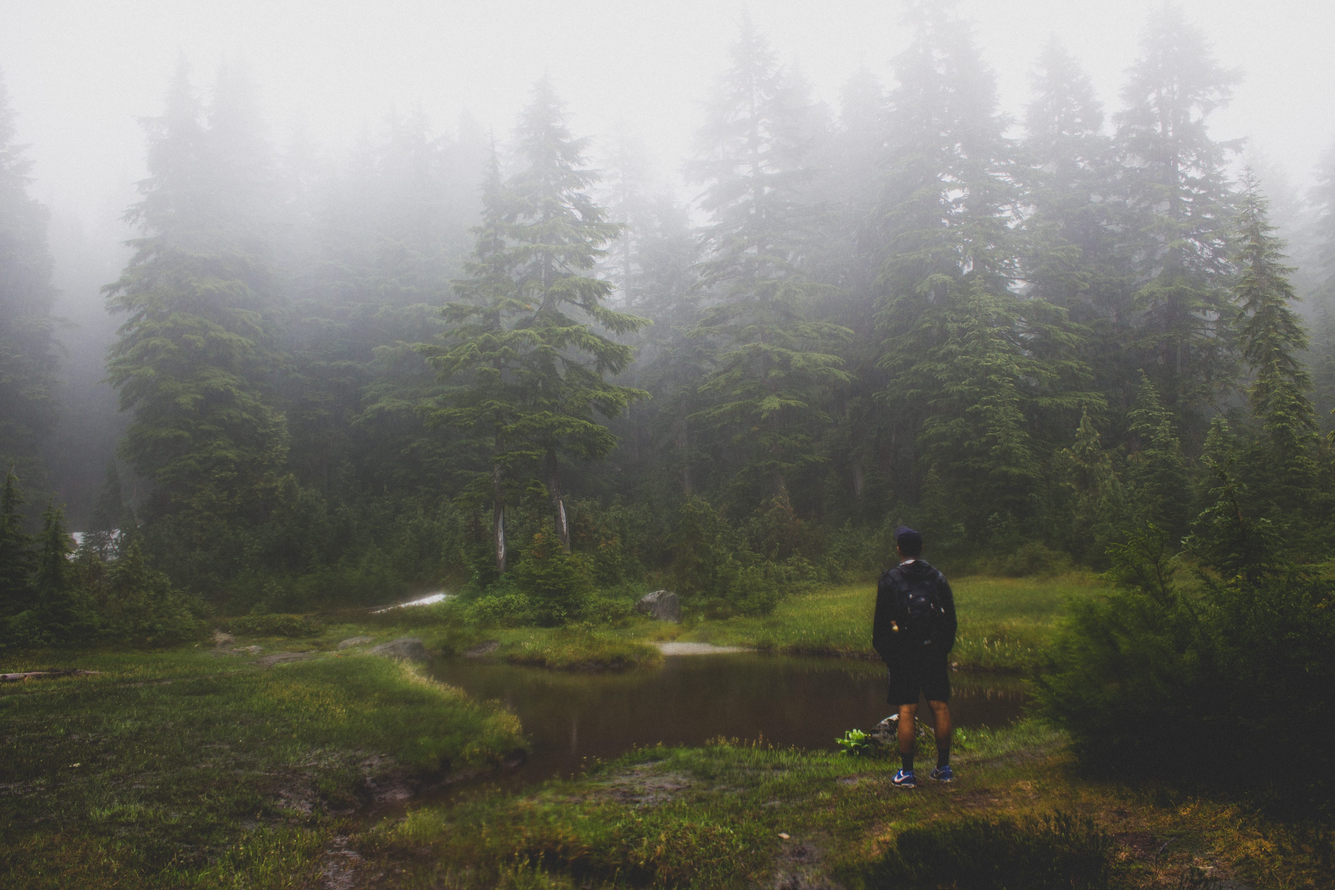
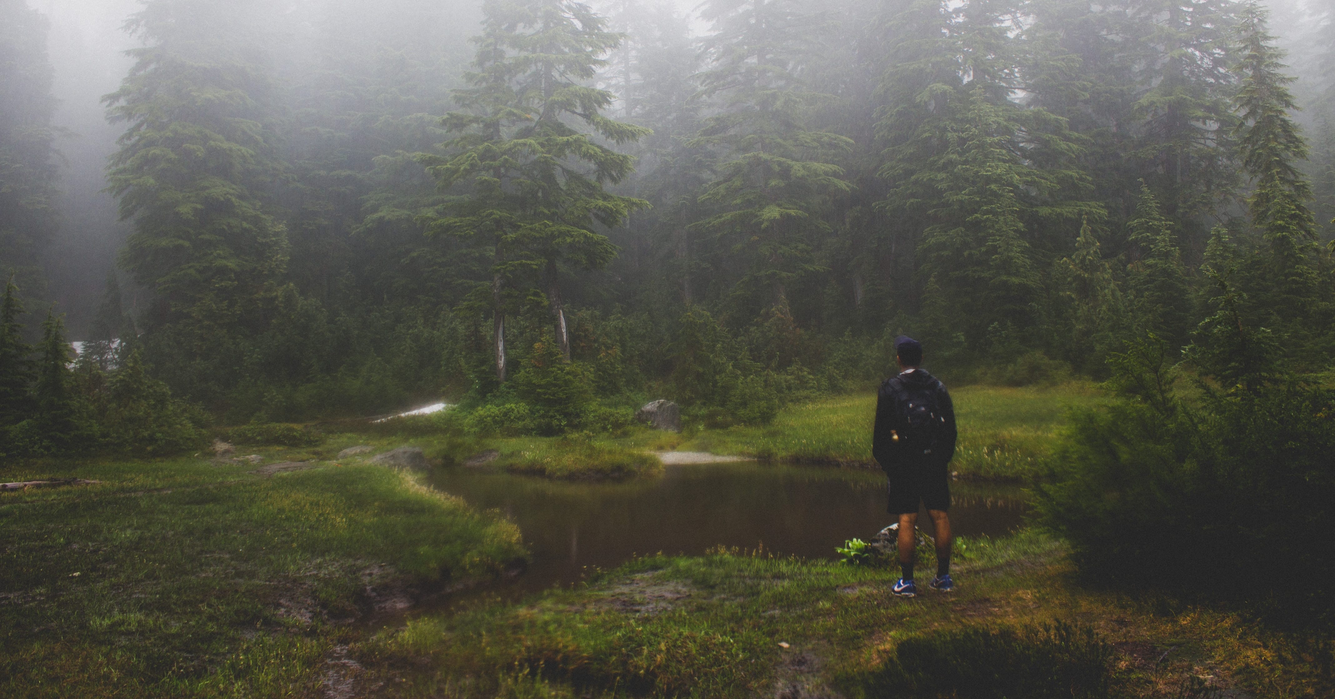
Beautify 404 page a bit

diff --git a/_templates/common.html b/_templates/common.html
@@ -104,7 +104,7 @@
 
       </footer>
 
-      <!-- Modal for copyright info. Hidden until JS is implemented -->
+      <!-- Modal for copyright info. Hidden until JS click event received. -->
       <div id="copyrightModal" class="modal">
         <div id="copyrightModalBackground" class="modal-background"></div>
         <div class="modal-card">

diff --git a/css/_style.css b/css/_style.css
@@ -235,7 +235,7 @@ h6,
 
 .error-page-hero {
   background-color: #3c3f2b; /* Dark bkgrnd fallback (b/c dark picture) */
-  background-image: url("/images/first-lake.jpg");
+  background-image: url("/images/first-lake-crop.jpg");
 }
 
 /* make error page hero text smaller becuse they will tend to be longer &

diff --git a/_error/404.md b/_error/404.md
@@ -6,11 +6,18 @@ heroText: "404: Page not found"
 ---
 
 <div class="columns is-desktop">
-  <div class="column is-8 is-offset-2">
+  <div class="column is-8 is-offset-2 has-text-centered">
 
-  <p class="lead">Sorry, we've misplaced that URL or it's pointing to something that doesn't exist.
-    <a href="{{ site.url }}">Head back home</a>
-    to try finding it again.</p>
+
+  <p>Sorry, it looks like this page does not exist!</p>
+  <p>
+    <a class="button" href="javascript:history.back()">
+      <!-- <span class="icon is-small">
+        <i class="fa fa-arrow-left" aria-hidden="true"></i>
+      </span> -->
+      <span>Go Back</span>
+    </a>
+  </p>
 
   </div>
 </div>
